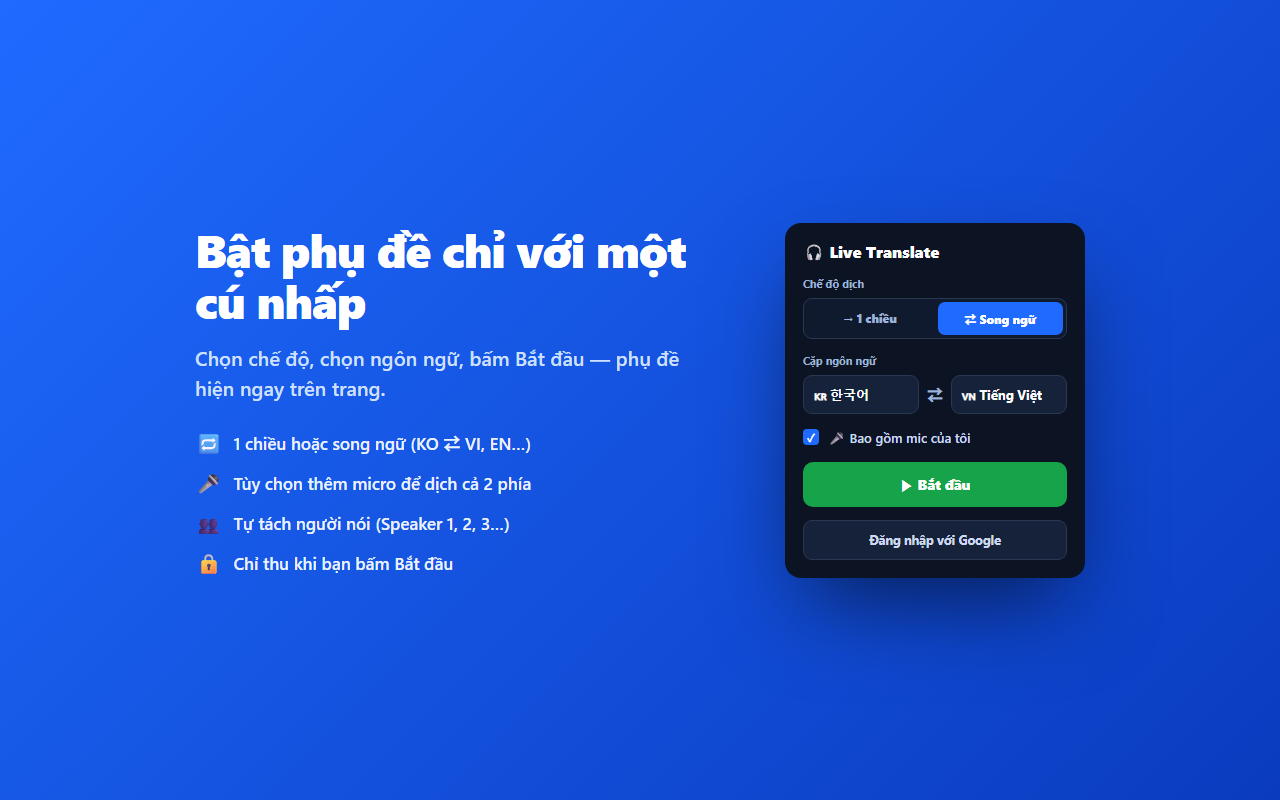
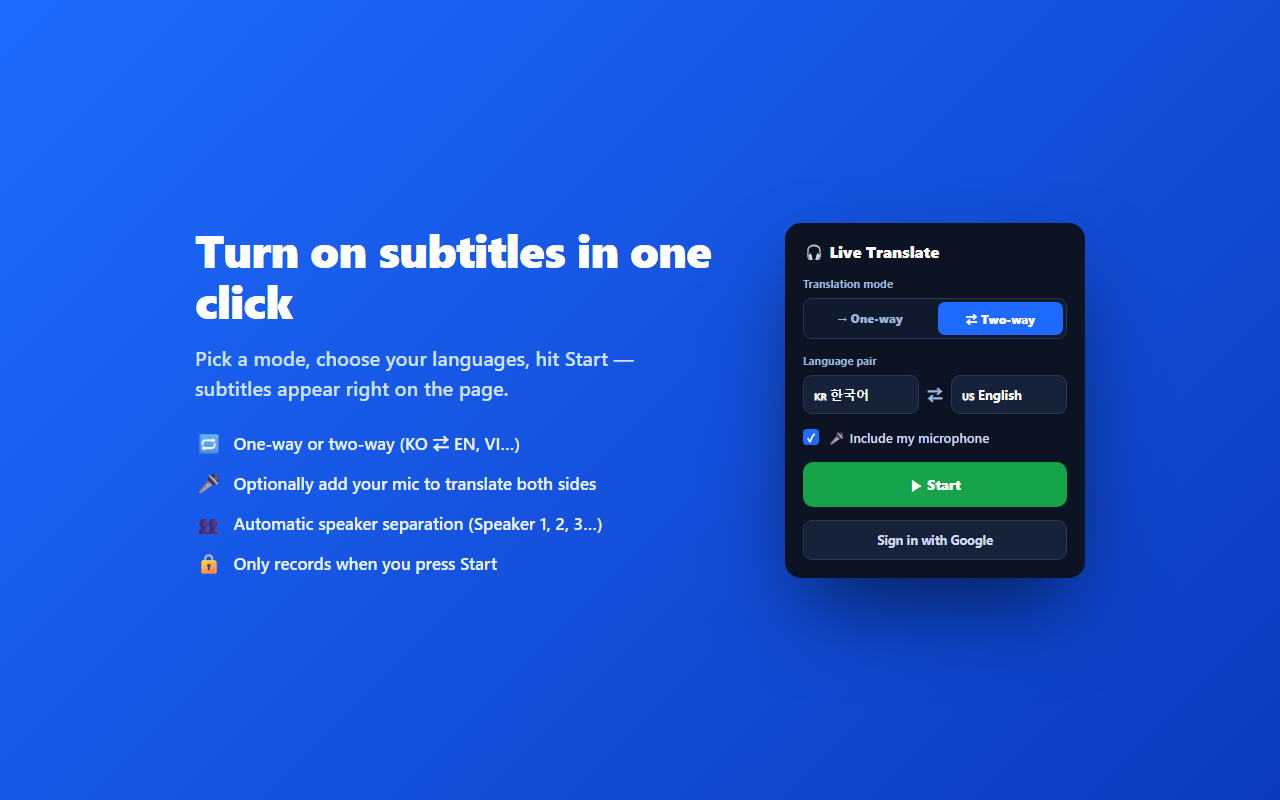
Store screenshots: regenerate in English (KO->EN demo) for international Chrome Web Store listing

diff --git a/store-assets/shot2.html b/store-assets/shot2.html
@@ -22,23 +22,23 @@ html,body{width:1280px;height:800px;overflow:hidden;font-family:'Segoe UI','Malg
 .foot button{border:1px solid rgba(255,255,255,.18);background:transparent;color:#9fb3d6;font-size:13px;font-weight:700;padding:8px 22px;border-radius:9px;font-family:inherit}
 </style></head><body>
 <div class="stage">
-  <div class="head"><h1>Dừng &amp; nhận biên bản họp tự động</h1>
-    <p>AI viết tóm tắt — tải về cả transcript gốc và bản dịch</p></div>
+  <div class="head"><h1>Stop &amp; get automatic meeting minutes</h1>
+    <p>AI writes the summary — download both the original and the translation</p></div>
   <div class="card">
-    <div class="sumh"><b>📝 Tóm tắt</b>
-      <div class="sact"><button>Copy</button><button class="pri">Tải tóm tắt</button><button>Tải transcript</button></div></div>
+    <div class="sumh"><b>📝 Summary</b>
+      <div class="sact"><button>Copy</button><button class="pri">Download summary</button><button>Download transcript</button></div></div>
     <div class="body">
-      <span class="h">Thành phần tham dự</span>
-      <li>Speaker 1 — chủ trì</li><li>Speaker 2 — phụ trách tài liệu</li>
-      <span class="h">Tóm tắt chung</span>
-      <p>Cuộc họp rà soát tài liệu trước khi triển khai. Hai bên thống nhất bắt đầu ngay sau khi xác nhận đã nhận đủ tài liệu.</p>
-      <span class="h">Quyết định</span>
-      <li>Khởi động dự án ngay trong tuần này</li><li>Chốt bản tài liệu hiện tại làm bản chính thức</li>
-      <span class="h">Việc cần làm</span>
-      <li><strong>Speaker 2</strong> — gửi lại bản tài liệu cuối cho cả nhóm</li>
-      <li><strong>Speaker 1</strong> — lên lịch họp theo dõi tuần sau</li>
+      <span class="h">Participants</span>
+      <li>Speaker 1 — host</li><li>Speaker 2 — owns the documents</li>
+      <span class="h">Overview</span>
+      <p>The team reviewed the documents before kickoff. Both sides agreed to start as soon as everyone confirmed they had received the full set.</p>
+      <span class="h">Decisions</span>
+      <li>Kick off the project this week</li><li>Lock the current document as the official version</li>
+      <span class="h">Action items</span>
+      <li><strong>Speaker 2</strong> — resend the final document to the whole team</li>
+      <li><strong>Speaker 1</strong> — schedule a follow-up meeting next week</li>
     </div>
-    <div class="foot"><button>× Đóng phụ đề</button></div>
+    <div class="foot"><button>× Close subtitles</button></div>
   </div>
 </div>
 </body></html>

diff --git a/store-assets/shot3.html b/store-assets/shot3.html
@@ -25,24 +25,24 @@ html,body{width:1280px;height:800px;overflow:hidden;font-family:'Segoe UI','Malg
 </style></head><body>
 <div class="stage">
   <div class="left">
-    <h1>Bật phụ đề chỉ với một cú nhấp</h1>
-    <p>Chọn chế độ, chọn ngôn ngữ, bấm Bắt đầu — phụ đề hiện ngay trên trang.</p>
+    <h1>Turn on subtitles in one click</h1>
+    <p>Pick a mode, choose your languages, hit Start — subtitles appear right on the page.</p>
     <div class="feat">
-      <div><span>🔁</span> 1 chiều hoặc song ngữ (KO ⇄ VI, EN…)</div>
-      <div><span>🎤</span> Tùy chọn thêm micro để dịch cả 2 phía</div>
-      <div><span>👥</span> Tự tách người nói (Speaker 1, 2, 3…)</div>
-      <div><span>🔒</span> Chỉ thu khi bạn bấm Bắt đầu</div>
+      <div><span>🔁</span> One-way or two-way (KO ⇄ EN, VI…)</div>
+      <div><span>🎤</span> Optionally add your mic to translate both sides</div>
+      <div><span>👥</span> Automatic speaker separation (Speaker 1, 2, 3…)</div>
+      <div><span>🔒</span> Only records when you press Start</div>
     </div>
   </div>
   <div class="popup">
     <h2>🎧 Live Translate</h2>
-    <div class="lbl">Chế độ dịch</div>
-    <div class="seg"><b>→ 1 chiều</b><b class="on">⇄ Song ngữ</b></div>
-    <div class="lbl">Cặp ngôn ngữ</div>
-    <div class="lrow"><div class="sel">🇰🇷 한국어</div><span class="swp">⇄</span><div class="sel">🇻🇳 Tiếng Việt</div></div>
-    <div class="mic"><i>✓</i> 🎤 Bao gồm mic của tôi</div>
-    <div class="start">▶ Bắt đầu</div>
-    <div class="gbtn">Đăng nhập với Google</div>
+    <div class="lbl">Translation mode</div>
+    <div class="seg"><b>→ One-way</b><b class="on">⇄ Two-way</b></div>
+    <div class="lbl">Language pair</div>
+    <div class="lrow"><div class="sel">🇰🇷 한국어</div><span class="swp">⇄</span><div class="sel">🇺🇸 English</div></div>
+    <div class="mic"><i>✓</i> 🎤 Include my microphone</div>
+    <div class="start">▶ Start</div>
+    <div class="gbtn">Sign in with Google</div>
   </div>
 </div>
 </body></html>

diff --git a/store-assets/shot1.html b/store-assets/shot1.html
@@ -33,8 +33,8 @@ html,body{width:1280px;height:800px;overflow:hidden;font-family:'Segoe UI','Malg
 .t{font-size:18px;color:#fff;font-weight:700}
 </style></head><body>
 <div class="stage">
-  <div class="head"><h1>Phụ đề dịch trực tiếp cho mọi cuộc họp &amp; video</h1>
-    <p>Google Meet · Zoom · Teams · YouTube — dịch ngay khi đang nói</p></div>
+  <div class="head"><h1>Live translated subtitles for every meeting &amp; video</h1>
+    <p>Google Meet · Zoom · Teams · YouTube — translated as people speak</p></div>
   <div class="browser">
     <div class="bbar"><span class="dot r"></span><span class="dot y"></span><span class="dot g"></span>
       <div class="url">🔒 meet.google.com/abc-defg-hij</div></div>
@@ -43,17 +43,17 @@ html,body{width:1280px;height:800px;overflow:hidden;font-family:'Segoe UI','Malg
         <div class="ovh">
           <div class="logo"><i></i><i></i><i></i><i></i></div>
           <div class="brand">TransFlash<span> · Live Translate</span></div>
-          <div class="pill">KO ⇄ VI</div>
-          <div class="st"><b></b>đang dịch</div>
-          <div class="acts"><button>⏸ Dừng</button><button class="sum">⏹ Tóm tắt</button></div>
+          <div class="pill">KO ⇄ EN</div>
+          <div class="st"><b></b>translating</div>
+          <div class="acts"><button>⏸ Pause</button><button class="sum">⏹ Summarize</button></div>
         </div>
         <div class="lines">
           <div class="line"><div class="spk"><em>1</em>Speaker 1</div>
             <div class="o">다들 회의 자료 받으셨나요?</div>
-            <div class="t">Mọi người đã nhận tài liệu họp chưa?</div></div>
+            <div class="t">Did everyone get the meeting materials?</div></div>
           <div class="line spk2"><div class="spk spk2"><em>2</em>Speaker 2</div>
             <div class="o">네, 방금 확인했습니다. 바로 시작할까요?</div>
-            <div class="t">Vâng, tôi vừa xem xong. Bắt đầu luôn nhé?</div></div>
+            <div class="t">Yes, I just checked. Shall we start now?</div></div>
         </div>
       </div>
     </div>